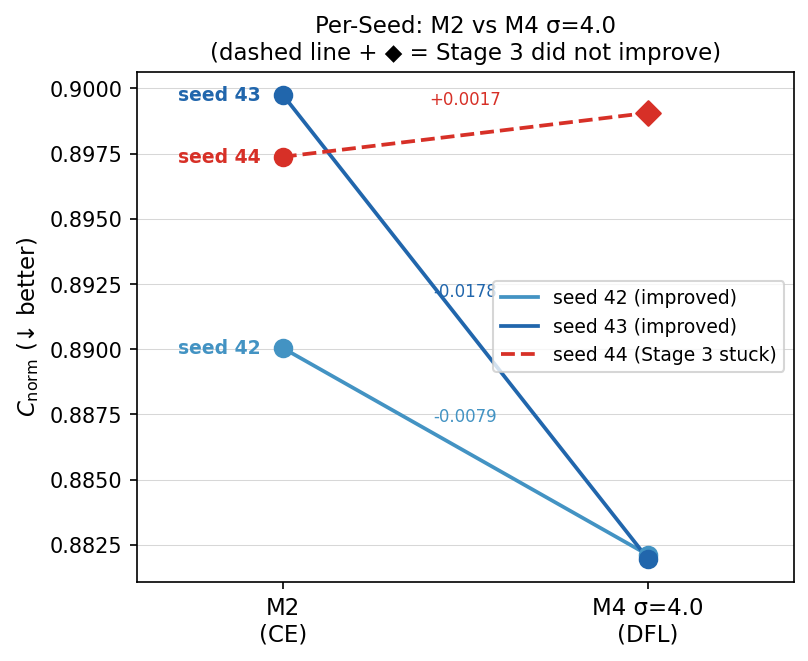
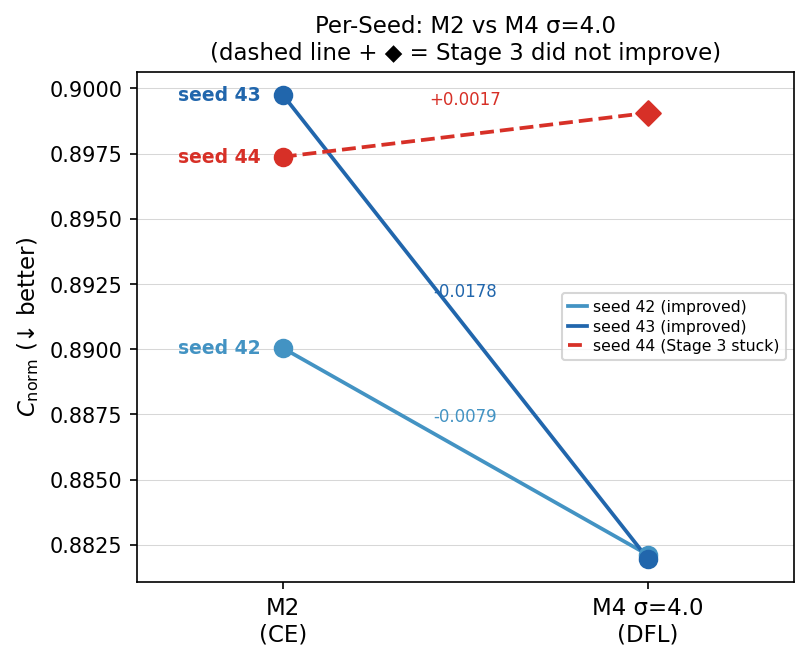
Fix fig1 y-axis to show oracle line; shrink fig3 legend

Changed region(s): [[0.5879, 0.4236, 0.9901, 0.5749]]

diff --git a/analysis/plot_main_comparison.py b/analysis/plot_main_comparison.py
@@ -51,19 +51,10 @@ for i, key in enumerate(labels):
     ax.scatter([x[i]] * len(SEEDS), all_vals[key],
                color="black", s=20, zorder=5, alpha=0.7)
 
-# Random reference line (visible in range)
+# Oracle and random reference lines
+ax.axhline(C_ORACLE / C_RANDOM, color="#1a9641", lw=1.5, ls="--", zorder=2,
+           label=f"Oracle  ({C_ORACLE/C_RANDOM:.3f})")
 ax.axhline(1.0, color="#d73027", lw=1.5, ls=":", zorder=2, label="Random  (1.000)")
-
-# Oracle is below the y-axis range — annotate with a downward arrow instead
-oracle_cnorm = C_ORACLE / C_RANDOM  # 0.780
-y_bottom = 0.84
-ax.annotate(
-    f"Oracle = {oracle_cnorm:.3f} (below range)",
-    xy=(x[-1] + width / 2 + 0.05, y_bottom),
-    xytext=(x[-1] + width / 2 + 0.05, y_bottom + 0.018),
-    ha="right", va="bottom", fontsize=9, color="#1a9641",
-    arrowprops=dict(arrowstyle="-|>", color="#1a9641", lw=1.2),
-)
 
 # Formatting
 ax.set_xticks(x)
@@ -71,7 +62,7 @@ ax.set_xticklabels([METHODS[k][1] for k in labels], fontsize=11)
 ax.set_ylabel(r"$C_{\mathrm{norm}}$ = $C_{\mathrm{total}}$ / $C_{\mathrm{random}}$  (↓ better)", fontsize=11)
 ax.set_title("Scheduling Performance — Main Method Comparison\n(test set, N=333, seeds 42/43/44)",
              fontsize=12)
-ax.set_ylim(0.84, 1.02)
+ax.set_ylim(0.76, 1.02)
 ax.yaxis.grid(True, lw=0.5, alpha=0.5, zorder=0)
 ax.set_axisbelow(True)
 ax.legend(fontsize=10, loc="upper right")

diff --git a/analysis/plot_per_seed.py b/analysis/plot_per_seed.py
@@ -61,7 +61,8 @@ legend_elements = [
     Line2D([0], [0], color="#2166ac", lw=1.8, label="seed 43 (improved)"),
     Line2D([0], [0], color="#d73027", lw=1.8, ls="--", label="seed 44 (Stage 3 stuck)"),
 ]
-ax.legend(handles=legend_elements, fontsize=9, loc="center right")
+ax.legend(handles=legend_elements, fontsize=7.5, loc="center right",
+          handlelength=1.2, handletextpad=0.4, borderpad=0.4, labelspacing=0.3)
 
 fig.tight_layout()
 for ext in ("pdf", "png"):